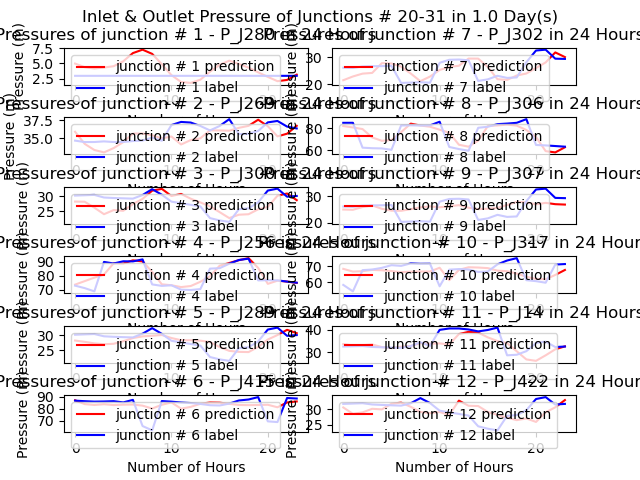
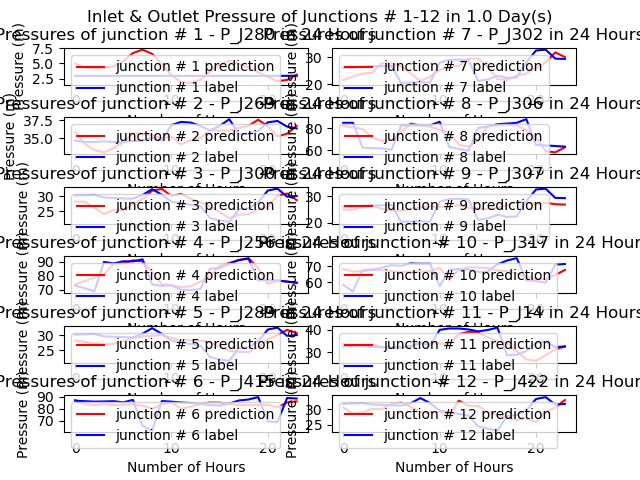
plot 1 hour

Changed region(s): [[0.125, 0.0, 0.875, 0.0625]]

diff --git a/src/TGCN/tensorflow_model/main.py b/src/TGCN/tensorflow_model/main.py
@@ -348,10 +348,10 @@ def load_and_eval():
     var_test_label.to_csv(eval_path + "/test_labels.csv", index=False, header=False)
 
     # Plots results
-    plot_result_tank(test_result, test_label1, eval_path, hour = 24)
-    plot_result_pump(test_result, test_label1, eval_path, hour = 24)
-    plot_result_valve(test_result, test_label1, eval_path, hour = 24)
-    plot_result_junction(test_result, test_label1, eval_path, hour = 24)
+    plot_result_tank(test_result, test_label1, eval_path, hour = 720)
+    plot_result_pump(test_result, test_label1, eval_path, hour = 720)
+    plot_result_valve(test_result, test_label1, eval_path, hour = 720)
+    plot_result_junction(test_result, test_label1, eval_path, hour = 720)
     
     # Prints out testing results
     print("-----------------------------------------------\nEvaluation Metrics:")
